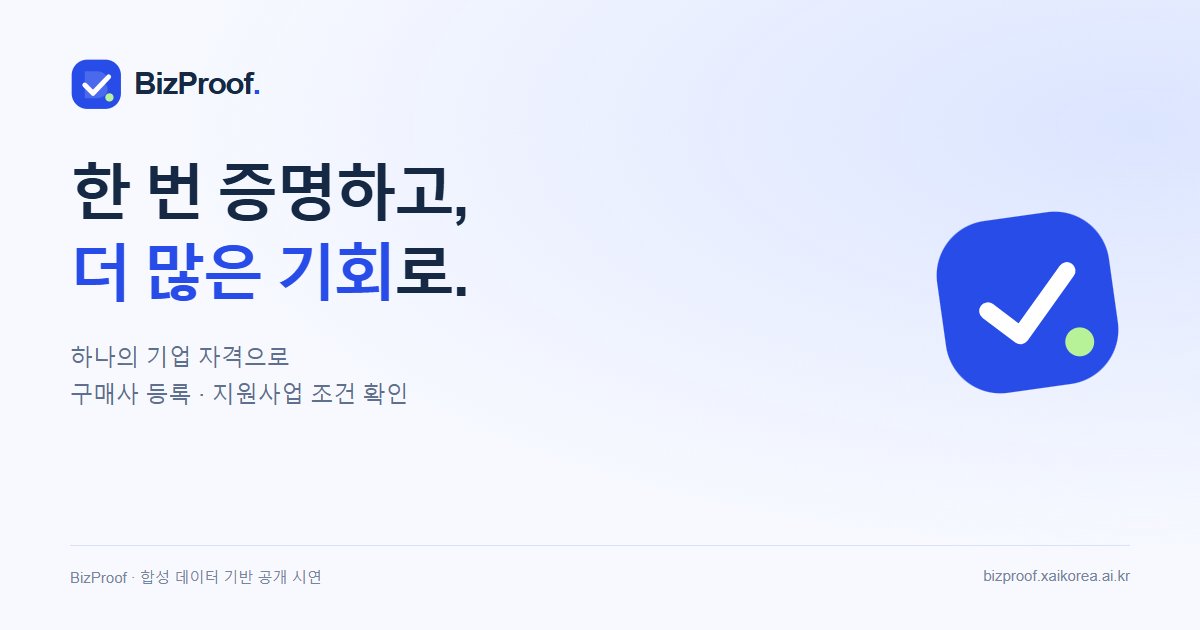
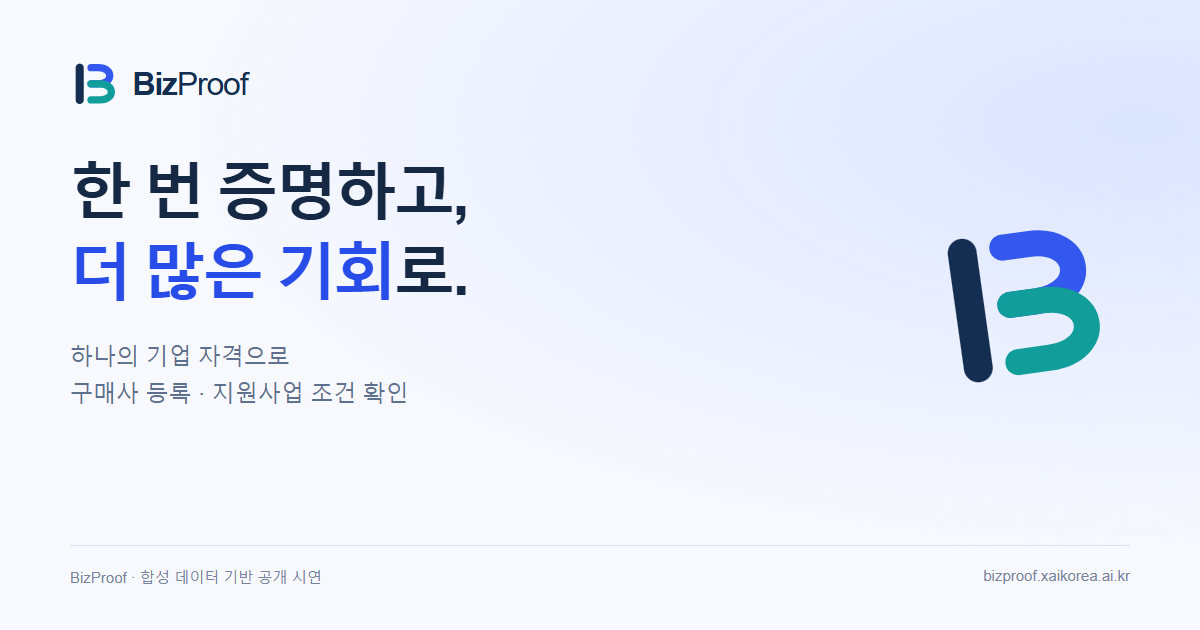
feat: redesign BizProof as a reusable-credential B monogram

diff --git a/app/globals.css b/app/globals.css
@@ -196,8 +196,8 @@ body{font-family:Inter,"Segoe UI","Malgun Gothic",sans-serif;font-size:16px;back
 @media(max-width:700px){.guide-public{padding:24px 16px}.guide-hero{padding:24px}.guide-hero h2{font-size:24px}.guide-layout{display:block}.guide-toc{position:static;max-height:250px;margin-bottom:20px}.guide-topic{padding:20px}.guide-topic h2{font-size:20px}.guide-paths{gap:8px}.guide-paths a{padding:12px}.guide-search input{font-size:12px}.guide-back{float:none;display:block;margin-top:12px}}
 /* Purpose-led applications: only the user's decisions are visible. */
 .simple-workspace{max-width:1050px;line-height:1.8;color:#253a54}.simple-hero{padding:38px;border-radius:18px;background:linear-gradient(120deg,#193855,#245f69);color:white}.simple-hero>span{color:#a5e5d4;font-size:13px}.simple-hero h2{font-size:32px;font-weight:750;margin:12px 0}.simple-hero p{color:#d8e8eb;margin-bottom:24px}.simple-home-grid,.simple-targets{display:grid;grid-template-columns:repeat(2,minmax(0,1fr));gap:16px;margin:22px 0}.simple-home-grid{grid-template-columns:repeat(3,minmax(0,1fr))}.simple-home-grid button,.simple-target{background:white;border:1px solid #dae4ef;border-radius:14px;padding:24px;text-align:left;cursor:pointer}.simple-home-grid strong,.simple-home-grid span{display:block;margin-top:12px}.simple-home-grid span{font-size:13px;color:#64768c}.simple-target:disabled{opacity:.5;cursor:default}.simple-target:hover:not(:disabled){border-color:#328978;background:#f5fbf9}.simple-target h3{font-size:20px;font-weight:700;margin:12px 0 8px}.simple-target p{color:#6b7d94;font-size:13px}.simple-target b{display:flex;align-items:center;gap:8px;color:#167364;font-size:13px;margin-top:18px}.simple-card{background:white;border:1px solid #dce4ef;border-radius:14px;padding:26px;margin:18px 0}.simple-card h2{font-size:22px;font-weight:700;margin-bottom:12px}.simple-card h3{font-size:16px;font-weight:650;margin:20px 0 10px}.simple-card>small{display:block;overflow-wrap:anywhere;color:#718097;font-size:11px;margin:15px 0}.simple-field{display:grid;gap:8px;margin:15px 0;font-size:14px}.simple-field select,.simple-field input{border:1px solid #cbd8e7;border-radius:8px;padding:12px;max-width:100%;width:100%;background:white;min-width:0}.simple-heading{display:flex;justify-content:space-between;gap:12px;align-items:center}.simple-steps{display:flex;gap:16px;align-items:center;font-size:14px;color:#76869c;flex-wrap:wrap}.simple-steps .active{font-weight:700;color:#126d60}.simple-pill{display:inline-block;font-size:12px;border-radius:20px;background:#eaf4f1;color:#176f60;padding:3px 12px}.simple-note{font-size:12px;color:#708197;margin:20px 0}.simple-ready{display:flex;gap:14px;align-items:center;padding:18px;background:#edf7f3;border-radius:10px;margin:18px 0}.simple-ready svg{color:#17816c;flex-shrink:0}.simple-ready p{font-size:13px}.simple-sharing{display:grid;grid-template-columns:1fr 1fr;gap:20px;background:#f5f7fb;border-radius:12px;padding:20px;margin:24px 0;font-size:13px}.simple-sharing b{font-weight:650}.simple-sharing p{margin:8px 0 14px}.simple-consent{display:flex;align-items:flex-start;gap:12px;padding:14px 0;font-size:14px}.simple-consent input{margin-top:6px;flex-shrink:0;width:17px;height:17px;accent-color:#147863}.simple-submit{margin-top:12px}.simple-warning{border-left:3px solid #d2a247;background:#fff8e9;padding:18px;margin:16px 0;font-size:14px}.simple-success{padding:36px;border-color:#82baa9}.simple-success>svg{color:#19856f;width:38px;height:38px;margin-bottom:18px}.simple-success button{margin:16px 10px 0 0}.simple-section-title{font-size:20px;font-weight:700;margin-top:24px}.simple-advanced{font-size:12px;color:#65758f;text-align:left;margin:18px 16px;cursor:pointer}.simple-card details{font-size:12px;color:#667992;overflow-wrap:anywhere}.simple-card summary{cursor:pointer}.simple-workspace :focus-visible{outline:3px solid #87b8d5;outline-offset:3px}@media(max-width:700px){.simple-home-grid,.simple-targets,.simple-sharing{grid-template-columns:1fr}.simple-card,.simple-hero{padding:20px}.simple-hero h2{font-size:25px}.simple-heading{align-items:start;flex-direction:column}.simple-steps{font-size:12px;gap:8px}.simple-card h2{font-size:20px}}
-.bp-logo{display:inline-flex;align-items:center;gap:11px;vertical-align:middle}.bp-logo svg{width:44px;height:44px;flex-shrink:0}.bp-logo-word{font-size:27px;letter-spacing:-1.1px;font-weight:800;color:#152844}.bp-logo-word>span{color:#284ce8}.bp-logo-animated svg{animation:bp-float 4s ease-in-out infinite}.bp-logo-animated .bp-logo-check{stroke-dasharray:46;stroke-dashoffset:0;animation:bp-check 3.4s ease-in-out infinite}.bp-loading{min-height:65vh;display:flex;flex-direction:column;align-items:center;justify-content:center;gap:24px;background:#f7f9fd;color:#65718b}.bp-loading-track{height:3px;width:120px;border-radius:5px;background:linear-gradient(90deg,#dbe3ff,#284ce8,#dbe3ff);background-size:200% 100%;animation:bp-progress 2s linear infinite}.loading .bp-logo svg{width:36px;height:36px}@keyframes bp-float{50%{transform:translateY(-5px)}}@keyframes bp-check{0%{stroke-dashoffset:46}35%,85%,100%{stroke-dashoffset:0}}@keyframes bp-progress{to{background-position:200% 0}}
+.bp-logo{display:inline-flex;align-items:center;gap:11px;vertical-align:middle}.bp-logo svg{width:44px;height:44px;flex-shrink:0}.bp-logo-word{font-size:27px;letter-spacing:-1.1px;font-weight:750;color:#142e52}.bp-logo-word>span{color:#142e52;font-weight:500}.bp-logo-animated svg{animation:bp-float 4s ease-in-out infinite}.bp-logo-animated .bp-logo-upper,.bp-logo-animated .bp-logo-lower{animation:bp-link 3.6s ease-in-out infinite}.bp-logo-animated .bp-logo-lower{animation-delay:.45s}.bp-loading{min-height:65vh;display:flex;flex-direction:column;align-items:center;justify-content:center;gap:24px;background:#f7f9fd;color:#65718b}.bp-loading-track{height:3px;width:120px;border-radius:5px;background:linear-gradient(90deg,#dbe3ff,#284ce8,#dbe3ff);background-size:200% 100%;animation:bp-progress 2s linear infinite}.loading .bp-logo svg{width:36px;height:36px}@keyframes bp-float{50%{transform:translateY(-5px)}}@keyframes bp-link{0%,100%{opacity:1}45%{opacity:.4;transform:translateX(2px)}}@keyframes bp-progress{to{background-position:200% 0}}
 .welcome{color:#152844;background:radial-gradient(ellipse at 83% 28%,#e8ecff,transparent 43%),#f8faff;min-height:100vh;font-family:Arial,'Malgun Gothic',sans-serif}.welcome a{text-decoration:none}.welcome-nav{max-width:1240px;margin:auto;padding:28px 40px;display:flex;justify-content:space-between;align-items:center;border-bottom:1px solid #e3e8f2}.welcome-nav nav{display:flex;gap:28px;font-size:13px;color:#54617a}.welcome-hero{max-width:1240px;margin:auto;display:grid;grid-template-columns:1.05fr 1fr;gap:70px;align-items:center;padding:85px 40px 75px}.welcome-kicker{display:flex;align-items:center;gap:9px;font-size:10px;letter-spacing:2px;color:#53679c;font-weight:700}.welcome-kicker i{width:7px;height:7px;border-radius:50%;background:#284ce8}.welcome h1{font-size:clamp(36px,4.3vw,60px);font-weight:800;line-height:1.23;letter-spacing:-3px;margin:25px 0}.welcome h1 em{font-style:normal;color:#284ce8}.welcome-lead{font-size:17px;color:#64728a;line-height:1.85;margin-bottom:30px}.welcome-entry button{background:#284ce8;color:white;padding:18px 23px;border:0;border-radius:12px;font-size:16px;font-weight:700;display:flex;align-items:center;gap:26px;cursor:pointer;box-shadow:0 8px 20px #284ce822}.welcome-entry button:disabled{cursor:wait;opacity:.8}.welcome-entry .bp-logo svg{width:28px;height:28px}.welcome-guide-link{display:inline-block;font-size:13px;color:#536583;margin-top:19px}.welcome-details{display:flex;gap:15px;flex-wrap:wrap;margin-top:34px;color:#73809a;font-size:11px}.welcome-details span:before{content:'✓';margin-right:5px;color:#3e8a68}.welcome-visual{position:relative;padding:35px 0}.welcome-orbit{position:absolute;border:1px solid #d7dff6;width:390px;height:390px;border-radius:50%;top:-18px;left:20px;box-shadow:0 0 0 30px #e8edff66;pointer-events:none}.welcome-pass{position:relative;background:#fff;border:1px solid #dde4f4;border-radius:22px;padding:28px;box-shadow:0 25px 70px #26499716;transform:rotate(-3deg)}.welcome-pass-top{display:flex;align-items:center;gap:13px}.welcome-pass-top>span{font-size:9px;color:#8693aa;line-height:1.8;letter-spacing:1px}.welcome-pass-top b{font-size:13px;color:#3d5076;letter-spacing:0}.welcome-pass-top small{margin-left:auto;border:1px solid #d9e1f2;border-radius:20px;padding:5px 9px;font-size:9px;color:#7284a5}.welcome-company{margin:32px 0 25px;font-weight:700;font-size:25px;letter-spacing:-1px}.welcome-company span{display:block;font-size:11px;font-weight:400;letter-spacing:0;color:#8491a8;margin-top:8px}.welcome-pass-rule{height:1px;background:linear-gradient(90deg,#dbe2f2,#f5f7fc)}.welcome-pass-bottom{display:flex;align-items:center;justify-content:space-between;margin-top:20px;font-size:11px;color:#8693aa;line-height:1.8}.welcome-pass-bottom b{color:#51617f;font-weight:500}.welcome-verified{color:#2f8660;background:#eff9f2;border-radius:15px;padding:5px 10px}.welcome-destinations{position:relative;display:grid;grid-template-columns:1fr 1fr;gap:15px;margin-top:29px}.welcome-destinations>div{padding:23px 20px;background:#ffffffd9;border:1px solid #e2e7f3;border-radius:15px}.welcome-destinations span{font-size:8px;letter-spacing:1px;color:#8491aa;display:block}.welcome-destinations b{display:block;font-size:17px;margin:12px 0}.welcome-destinations small{font-size:11px;color:#4c896d}.welcome-caption{text-align:center;position:relative;font-size:8px;letter-spacing:2px;color:#8b9ab5;margin-top:20px}.welcome-steps{max-width:1160px;margin:auto;display:grid;grid-template-columns:repeat(3,1fr);border-top:1px solid #dfe6f3;border-bottom:1px solid #dfe6f3;padding:30px 0;gap:40px}.welcome-steps article>span{font-size:11px;color:#6d80b3}.welcome-steps h2{font-size:16px;font-weight:700;margin:10px 0}.welcome-steps p{font-size:12px;color:#7c899e;line-height:1.8}.welcome-footer{max-width:1240px;margin:auto;padding:28px 40px;display:flex;align-items:start;justify-content:space-between;gap:25px;color:#8390a6;font-size:10px;line-height:1.9}.welcome-footer a{white-space:nowrap}.welcome-mobile{display:none}.welcome :focus-visible{outline:3px solid #7895ff;outline-offset:5px}.guide-quickstart{background:#f1f5ff;border:1px solid #dce5fb;border-radius:16px;padding:26px;margin:20px 0}.guide-quickstart h2{font-size:22px;font-weight:750;margin:8px 0 16px}.guide-quickstart ol{padding-left:24px;line-height:1.9;font-size:14px}.guide-quickstart li{margin:10px 0}.guide-quickstart p{font-size:13px;color:#526783;line-height:1.8}.guide-quickstart a{color:#284ce8;text-decoration:underline}
 @media(max-width:850px){.welcome-nav{padding:22px 24px}.welcome-nav nav{gap:16px;font-size:11px}.welcome-hero{gap:30px;padding:45px 24px;grid-template-columns:1fr}.welcome-copy{max-width:580px}.welcome h1{letter-spacing:-2px;font-size:44px}.welcome-visual{max-width:470px;width:100%;margin:auto}.welcome-orbit{width:290px;height:290px;left:calc(50% - 145px);top:35px}.welcome-steps{margin:0 24px;gap:20px}.welcome-footer{padding:25px 24px}.welcome-lead{font-size:15px}}
 @media(max-width:480px){.welcome-nav .bp-logo-word{font-size:23px}.welcome-nav .bp-logo svg{width:34px;height:34px}.welcome-nav nav{gap:12px;font-size:10px}.welcome-nav{padding:20px}.welcome-hero{padding:35px 24px}.welcome h1{font-size:40px}.welcome-details{gap:10px;font-size:10px}.welcome-pass{padding:23px}.welcome-company{font-size:22px}.welcome-destinations>div{padding:19px 15px}.welcome-steps{grid-template-columns:1fr;gap:22px}.welcome-steps article{position:relative;padding-left:34px}.welcome-steps article>span{position:absolute;left:0;top:12px}.welcome-footer{flex-direction:column;gap:10px}.welcome-mobile{display:block}}
-@media(prefers-reduced-motion:reduce){.bp-logo-animated svg,.bp-logo-animated .bp-logo-check,.bp-loading-track{animation:none!important}}
+@media(prefers-reduced-motion:reduce){.bp-logo-animated svg,.bp-logo-animated .bp-logo-upper,.bp-logo-animated .bp-logo-lower,.bp-loading-track{animation:none!important}}

diff --git a/app/layout.tsx b/app/layout.tsx
@@ -5,8 +5,8 @@ export const metadata: Metadata = {
  metadataBase:new URL('https://bizproof.xaikorea.ai.kr'),
  title:'BizProof | 기업 자격 플랫폼',
  description:'한 번 발급한 기업 자격으로 구매사 등록과 지원사업 조건을 확인하세요. 합성 데이터 기반 공개 시연입니다.',
- icons:{icon:[{url:'/favicon.svg?v=2',type:'image/svg+xml'},{url:'/favicon-32.png?v=2',type:'image/png',sizes:'32x32'}],shortcut:'/favicon.ico?v=2',apple:{url:'/apple-touch-icon.png',sizes:'180x180'}},
- openGraph:{type:'website',locale:'ko_KR',siteName:'BizProof',title:'BizProof | 한 번 증명하고, 더 많은 기회로.',description:'하나의 기업 자격으로 구매사 등록·지원사업 조건 확인. 합성 데이터 기반 공개 시연.',images:[{url:'/og-image.png',width:1200,height:630,alt:'BizProof — 한 번 증명하고, 더 많은 기회로.'}]},
- twitter:{card:'summary_large_image',title:'BizProof | 한 번 증명하고, 더 많은 기회로.',description:'하나의 기업 자격으로 구매사 등록·지원사업 조건 확인.',images:['/og-image.png']}
+ icons:{icon:[{url:'/favicon.svg?v=3',type:'image/svg+xml'},{url:'/favicon-32.png?v=3',type:'image/png',sizes:'32x32'}],shortcut:'/favicon.ico?v=3',apple:{url:'/apple-touch-icon.png?v=3',sizes:'180x180'}},
+ openGraph:{type:'website',locale:'ko_KR',siteName:'BizProof',title:'BizProof | 한 번 증명하고, 더 많은 기회로.',description:'하나의 기업 자격으로 구매사 등록·지원사업 조건 확인. 합성 데이터 기반 공개 시연.',images:[{url:'/og-image.png?v=3',width:1200,height:630,alt:'BizProof — 한 번 증명하고, 더 많은 기회로.'}]},
+ twitter:{card:'summary_large_image',title:'BizProof | 한 번 증명하고, 더 많은 기회로.',description:'하나의 기업 자격으로 구매사 등록·지원사업 조건 확인.',images:['/og-image.png?v=3']}
 };
 export default function RootLayout({children}:Readonly<{children:React.ReactNode}>){return <html lang="ko"><body>{children}<VisitTracker/></body></html>}

diff --git a/app/bizproof-logo.tsx b/app/bizproof-logo.tsx
@@ -1,6 +1,6 @@
 export default function BizProofLogo({animated=false,compact=false}:{animated?:boolean;compact?:boolean}){
  return <span className={`bp-logo ${animated?'bp-logo-animated':''}`} aria-label="BizProof">
-  <svg viewBox="0 0 64 64" fill="none" aria-hidden="true"><rect className="bp-logo-tile" x="2" y="2" width="60" height="60" rx="19" fill="#284CE8"/><path d="M18 16H32C43 16 48 23 43 31C50 40 43 49 32 49H18V16Z" fill="white" fillOpacity=".16"/><path className="bp-logo-check" d="M18 33L28 43L47 23" stroke="white" strokeWidth="6" strokeLinecap="round" strokeLinejoin="round"/><circle cx="48" cy="48" r="5" fill="#B8F298"/></svg>
-  {!compact&&<span className="bp-logo-word">BizProof<span>.</span></span>}
+  <svg viewBox="0 0 64 64" fill="none" aria-hidden="true"><rect x="7" y="7" width="10" height="50" rx="5" fill="#142E52"/><path className="bp-logo-upper" d="M26 12H35C54 12 54 32 35 32H26" stroke="#3457EE" strokeWidth="9" strokeLinecap="round"/><path className="bp-logo-lower" d="M26 32H37C56 32 56 52 37 52H26" stroke="#119D9A" strokeWidth="9" strokeLinecap="round"/></svg>
+  {!compact&&<span className="bp-logo-word">Biz<span>Proof</span></span>}
  </span>;
 }

diff --git a/docs/brand-and-welcome.md b/docs/brand-and-welcome.md
@@ -2,8 +2,8 @@
 
 2026-09-22 제작. 기존 자격 시연·인증·데이터 보존 흐름을 유지하며 접속 경험을 추가했다.
 
-- 로고: 기업 자격 카드와 확인 표시를 결합한 벡터 심볼. 주색 #284CE8, 보조색 #B8F298.
-- 원본: public/bizproof-logo.svg. 파비콘: public/favicon.svg, favicon.ico, favicon-32.png.
+- 로고 v3: 하나의 기둥과 두 연결 곡선으로 만든 B 모노그램. 하나의 기업 자격을 구매사·지원사업에 재사용하는 구조를 표현한다. 남색 #142E52, 파랑 #3457EE, 청록 #119D9A. 체크 배지와 둥근 배경 타일을 제거하고 독립 심볼로 사용한다.
+- 원본: public/bizproof-logo.svg, 단독 심볼 public/bizproof-symbol.svg. 파비콘: public/favicon.svg, favicon.ico, favicon-32.png.
 - 모바일 아이콘: public/apple-touch-icon.png (180), public/icon-192.png (192).
 - 공유 카드: public/og-image.png (1200×630). Open Graph 및 Twitter large image 메타데이터 사용.
 - 공개 홈과 /welcome: 단일 체험 시작 버튼, 데이터·세션 범위 안내, 가이드 연결.
